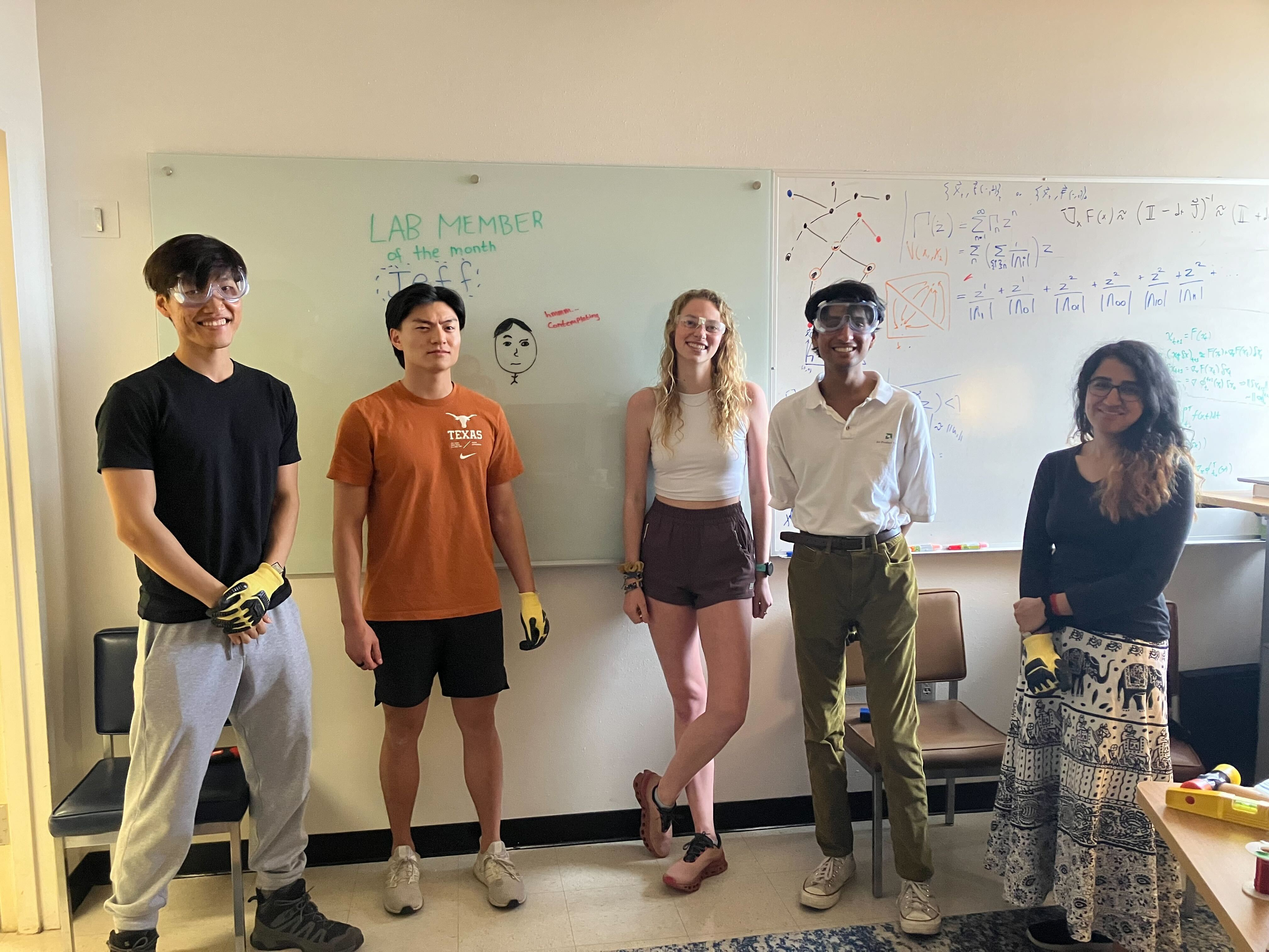
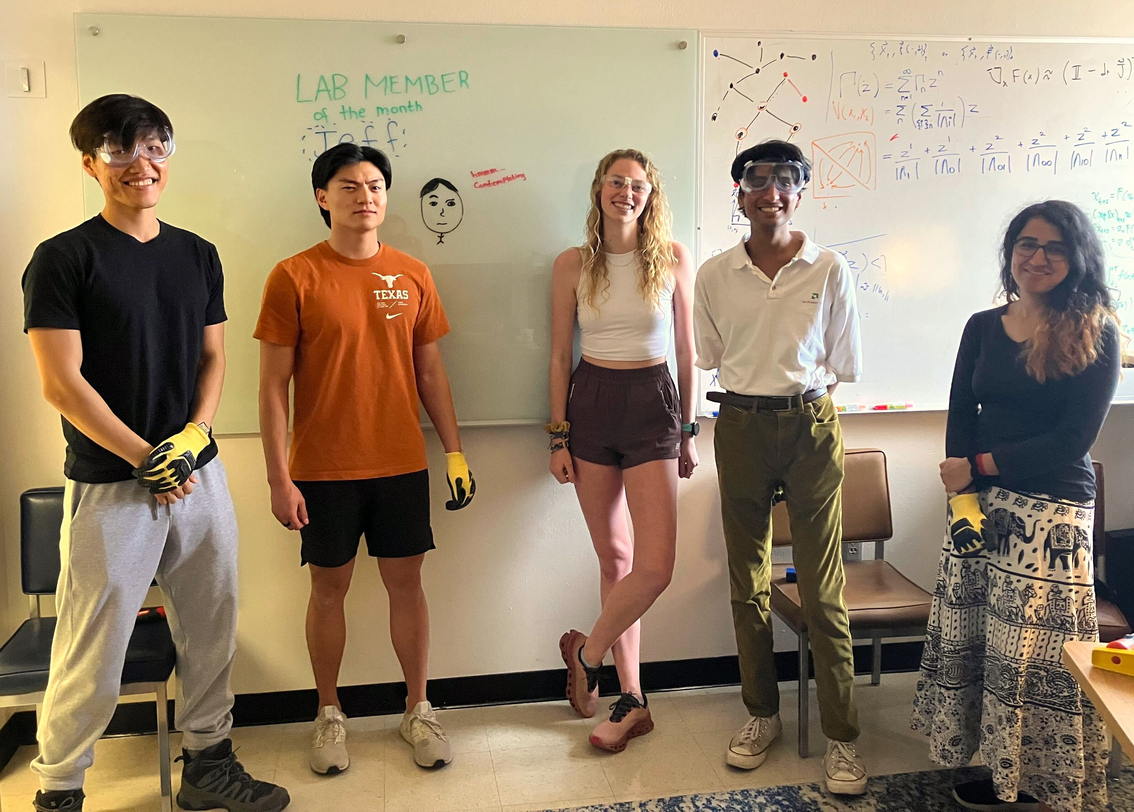
...

diff --git a/gilpinlab/index.md b/gilpinlab/index.md
@@ -6,13 +6,13 @@
 <!-- We are interested in computational nonlinear dynamics, broadly applied.  -->
 Our curiosity-driven research group bridges fluid dynamics, statistical learning, and systems biology. We develop new theory and algorithms for analysis and control of chaotic systems---like turbulent puffs, or neural spikes---and collaborate to apply these tools broadly. One part of the lab develops novel machine learning algorithms for time series, drawing upon the classical physics of complex systems like strange attractors, cellular automata, and random graphs. The second part of the group applies these principles to real-world complex systems such as biological measurements and fluid mixing.
 
-Check out our [gallery](pages/gallery.html)
-
-
-<img src="./assets/lab.jpg" width="70%" class="center"/>
-<br><br>
+**Check out our [gallery](pages/gallery.html)**
 
 # Members
+
+<br>
+<img src="./assets/lab.jpg" width="100%" class="center"/>
+
 <br>
 William Gilpin, Assistant Professor of Physics\
 Department of Physics & Oden Institute for Computational Engineering and Sciences\
@@ -40,11 +40,6 @@ Yasa Baig. Harvard QBio REU while undergrad at Duke. _Next position:_ Marshall S
 **Graduate Students.** If you have not yet applied, please apply to the Department of Physics or the Oden CSEM program. Other departments are definitely possible, too. If you are already at UT, please email William.
 
 
-
-<!-- # Publications
-
-_Coming soon once the template is fixed. For now, see William's [CV](http://www.wgilpin.com/CV/wgilpin_CV.pdf)_
- -->
 
 <img src="./assets/banner2.jpg" width="100%" class="center"/>
 
